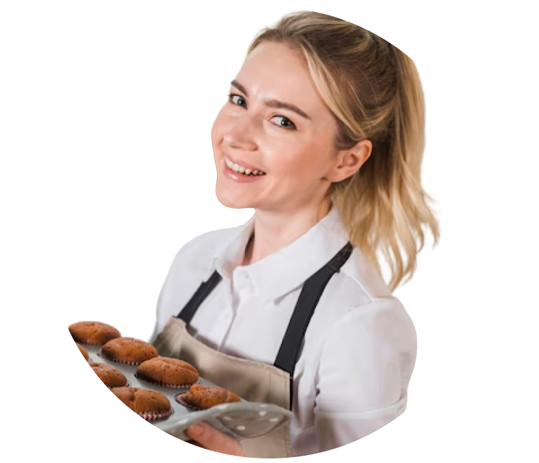
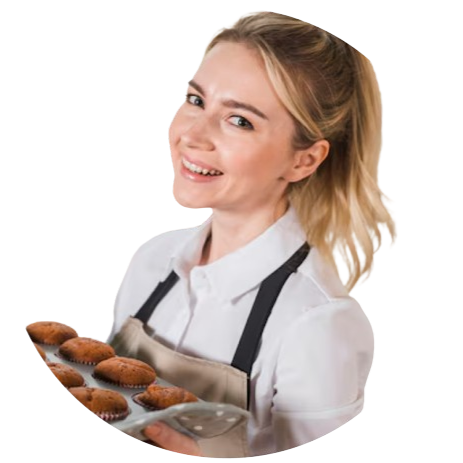
estilização do perfil praticamente pronta

diff --git a/site.atualizado/css/stylePerfil.css b/site.atualizado/css/stylePerfil.css
@@ -127,31 +127,33 @@ ul li.itemMenu a .icon > ion-icon{
     margin: auto;
     background: #fff url(../img/TesteBackPerfil.png) no-repeat center;
     background-size: cover;
-    width: 86%;
-    height: 500px;
+    width: 89%;
+    height: 390px;
 }
 .BlocoPerfilPrincipal{
     position: absolute;
-    width: 319px;
-    height: 461px;
+    width: 353px;
+    height: 510px;
     background: #fff;
     display: flex;
     flex-direction: column;
     align-items: center;
     justify-content: center;
     gap: 15px;
-    border-radius: 100px 100px 0px 0px;
+    border-radius: 130px 130px 0px 0px;
     font-family: "M PLUS 1p", sans-serif;
     font-size: 1.1rem;
     box-shadow: 2px 2px 2px 0px #00000073;
+    top: 60%;
+    left: 7%;
 }
 .LocaleLikes{
     flex-direction: row;
     display: flex;
 }
 .FotoPerfil img{
-    width: 170px;
-    height: 170px;
+    width: 190px;
+    height: 190px;
     border-radius: 50%;
     /* border: 1px solid black; */
     background-color: #fff;
@@ -173,12 +175,21 @@ ul li.itemMenu a .icon > ion-icon{
    font-size: 2.3rem;
     color: #ED5C15;
 }
+.txt{
+    position: absolute;
+    width: 600px;
+    top: 115%;
+    left: 45%;
+
+    font:  1.5rem "M PLUS 1p", sans-serif;
+}
 
 footer{
     background-color: #FFF;
     padding: 10px;
     font: .7rem "Poppins", sans-serif;
     color: #666666;
+    margin-top: 400px;
 }
 footer p{
     padding: 0px 10px 0px 10px;

diff --git a/site.atualizado/html/Perfil.html b/site.atualizado/html/Perfil.html
@@ -77,7 +77,7 @@
                 <div class="NomeTrabalhador"><p>Gionava Neiers</p></div>
                 <div class="Categoria"><p>Confeiteira</p></div>
                 <div class="Avaliacao">
-                    <ion-icon name="star"></ion-icon>
+                    <ion-icon name="star"></ion-icon>   
                     <ion-icon name="star"></ion-icon>
                     <ion-icon name="star"></ion-icon>
                     <ion-icon name="star"></ion-icon>
@@ -89,6 +89,10 @@
                     <ion-icon name="heart-outline"></ion-icon>
                     <p>37K likes</p>
                 </div>
+            </div>
+
+            <div class="txt">
+                <p>Lorem ipsum dolor sit amet consectetur adipisicing elit. Tenetur, commodi numquam, iusto in minus eum quibusdam neque deserunt dignissimos veniam assumenda reiciendis explicabo autem veritatis, omnis blanditiis quae molestias obcaecati.</p>
             </div>
         </div>
 
